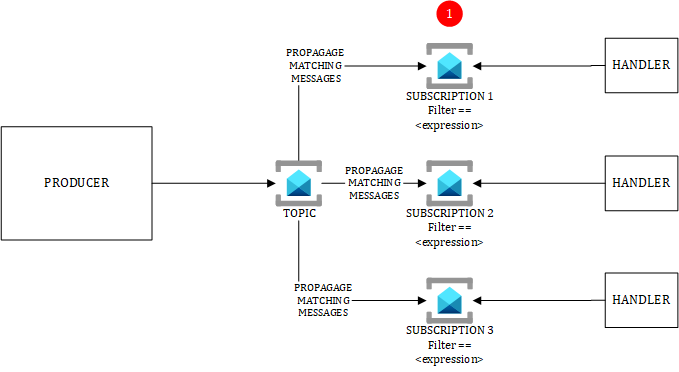
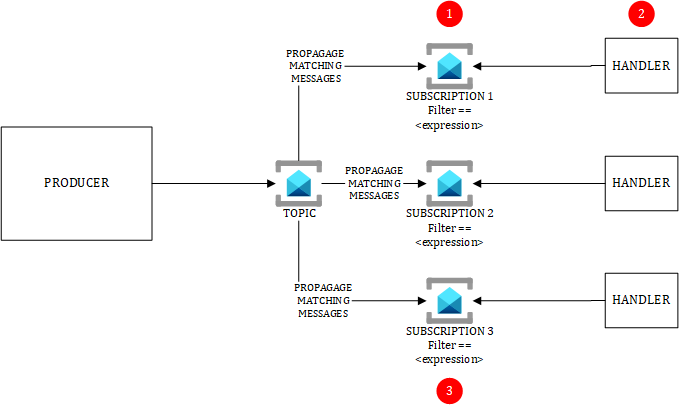
added event grid push diagram

diff --git a/IPaaS/patterns/pub-sub-event-grid.md b/IPaaS/patterns/pub-sub-event-grid.md
@@ -4,13 +4,19 @@
 The PUB/SUB pattern is popular in Event-Driven Architectures and Microservices. The producer of a message is agnostic of its subscriber(s). Each subscriber receives a copy of the original message sent by the topic.
 
 # Attention points
-## (1) Filters
+## (1) Event type
+Event Grid gives us the possibility to work with:
+
+- Custom Topics to send our discrete events. These topics can be regrouped into a given domain
+- System Topics to capture Azure events
+
+## (2) Filters
 Make sure to version your messages sent to the topic and to include the version into the subscription filters (along with other filter criteria). This helps maintain backward compatibility and allows you to change the structure of a message (including breaking changes) without harming the current subscribers of a given version. You may rollout a new "release" gradually and support side-by-side multiple versions of a given message.
 
-## (2) Push-based with Event Grid
-When using the push-based model, notified endpoints must be internet facing. This is a strong show stopper in Hub & Spoke. 
+## (3) Push-based with Event Grid
+When using the push-based model, notified endpoints must be internet facing. This is a strong show stopper in the Hub & Spoke model. Event Grid can be bound to many different endpoint types. 
 
-## (3) Handlers can become a potential bottleneck
+## (4) Handlers can become a potential bottleneck
 Event Grid can take many events per second and will notify the subscribers right away. Make sure that your handlers are able to follow the pace in case of high load. To illustrate this further, you must make sure to choose an appropriate hosting option for your handlers. For example, while Azure Functions Elastic Premium is a very good fit, Azure Functions running on an External App Service Environmment might be a bottleneck, given the time taken by an ASE to scale out. The center of gravity of your architecture is the handling part.
 
 # Pros & Cons of Pub/Sub using Azure Service Bus
